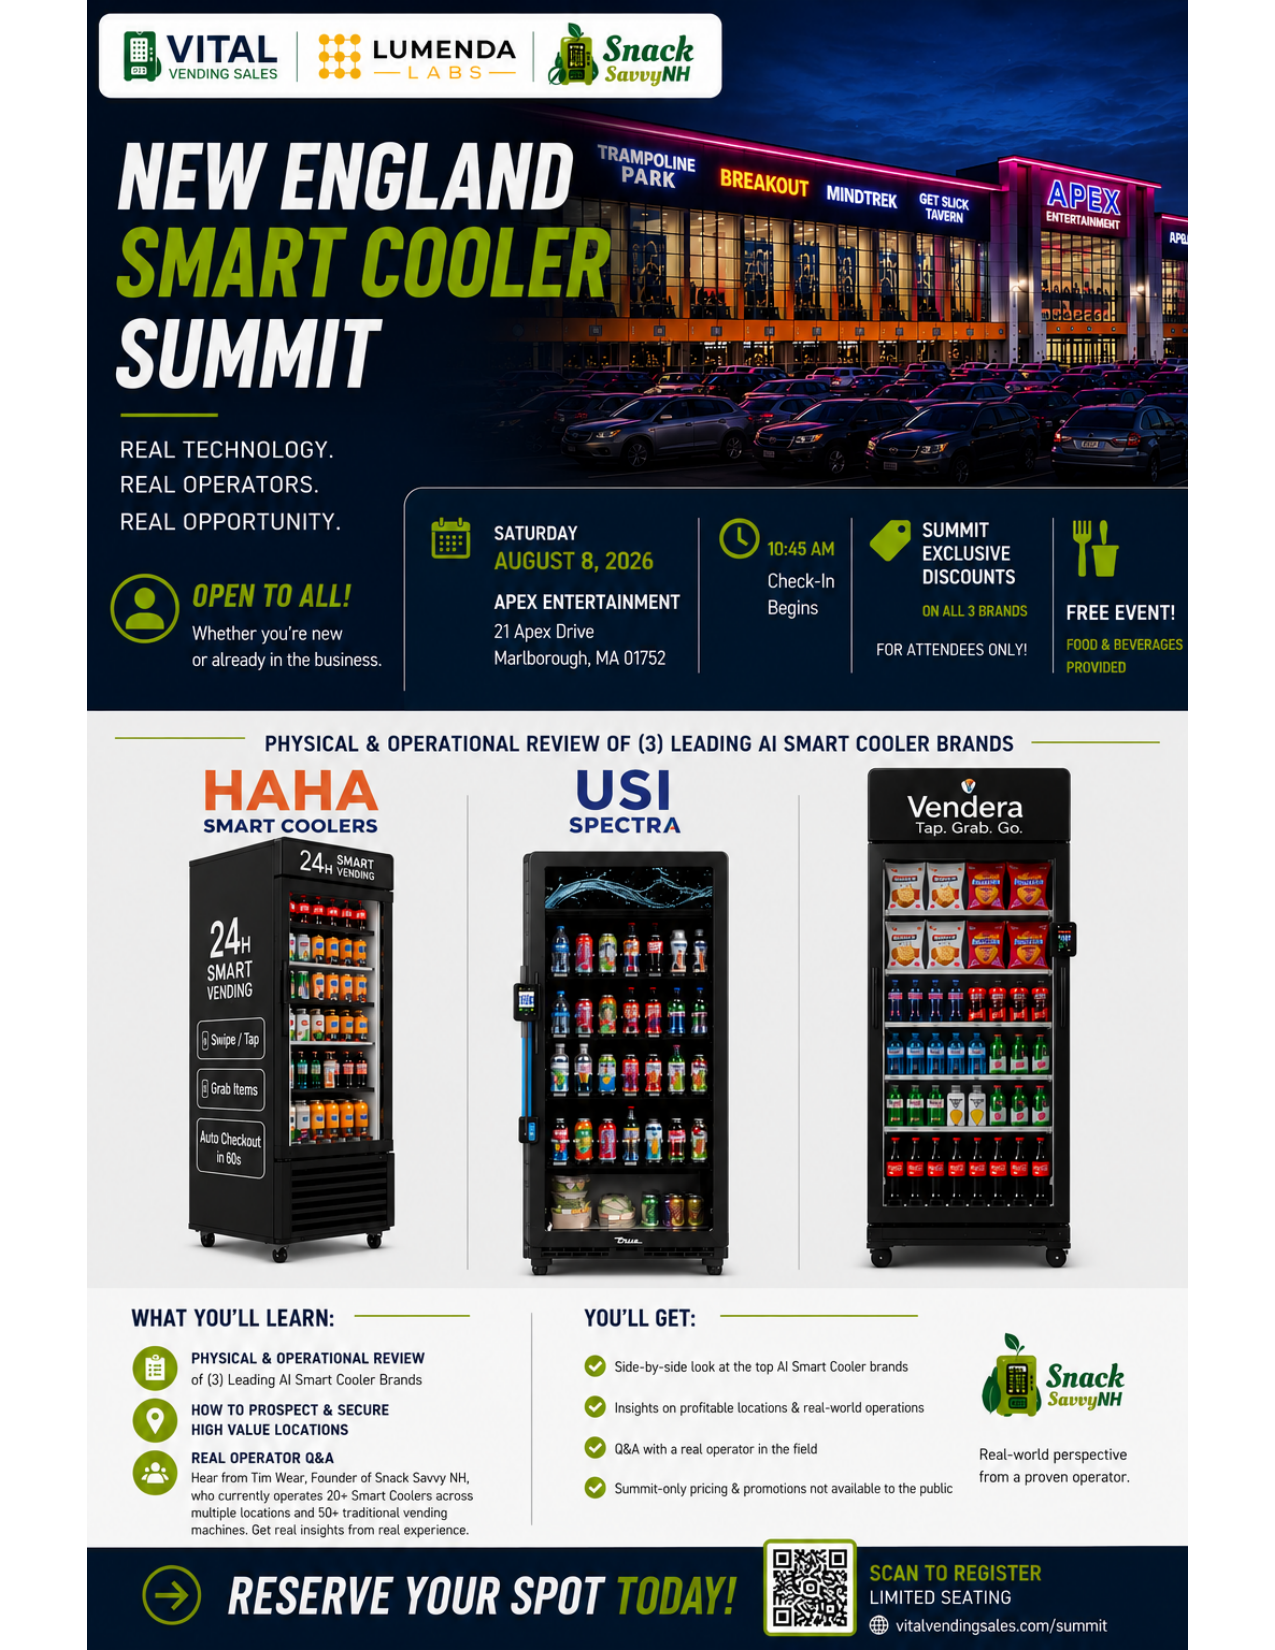
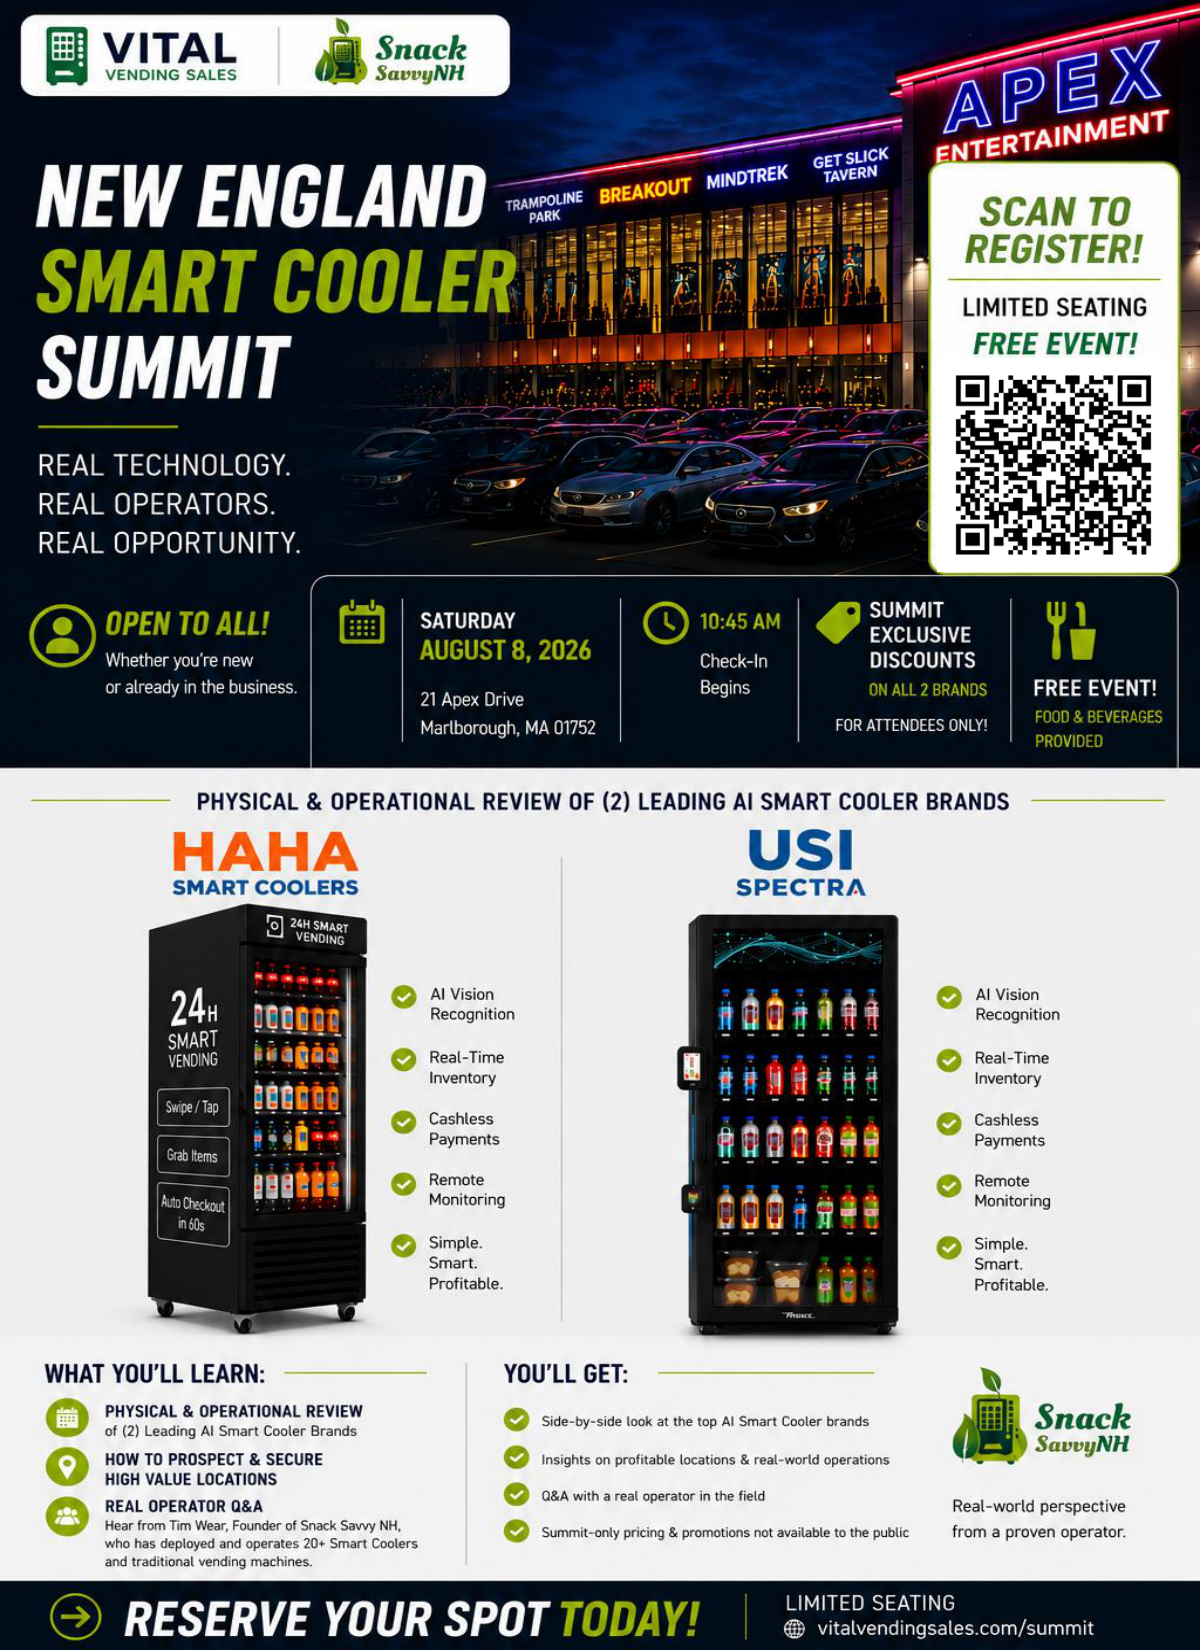
Update summit page to 2-brand event, remove Vendera
Client provided updated flier — the event now features only HAHA
and USI Spectra (Vendera dropped). Swapped the flier image, removed
Vendera from the brand showcase grid, and updated copy across the
"What You'll Learn"/"You'll Get" lists, page metadata, and operator
Q&A description to match the new flier content.

diff --git a/app/summit/page.js b/app/summit/page.js
@@ -5,9 +5,9 @@ import Image from 'next/image';
 import { submitToHubSpot } from '../../lib/hubspot';
 
 const LEARN_ITEMS = [
-  'Physical & operational review of 3 leading AI smart cooler brands — HAHA, USI Spectra, and Vendera',
+  'Physical & operational review of 2 leading AI smart cooler brands — HAHA and USI Spectra',
   'How to prospect and secure high-value locations',
-  'Real operator Q&A with Tim Wear, founder of Snack Savvy NH (20+ smart coolers, 50+ traditional vending machines)',
+  'Real operator Q&A with Tim Wear, founder of Snack Savvy NH, who has deployed and operates 20+ smart coolers and traditional vending machines',
   'Networking with other operators and industry experts',
 ];
 
@@ -15,13 +15,12 @@ const GET_ITEMS = [
   'A side-by-side look at the top AI smart cooler brands',
   'Insights on profitable locations and real-world operations',
   'Q&A with a real operator in the field',
-  'Summit-only pricing and promotions not available to the public',
+  'Summit-only pricing and promotions on both brands — not available to the public',
 ];
 
 const BRANDS = [
   { name: 'HAHA Smart Coolers', img: '/static-assets/MoreVendingMachinesandContent/Mini Details.png' },
   { name: 'USI Spectra', img: '/static-assets/vvs_product_catalog/images/spectra-pro-1.png' },
-  { name: 'Vendera', img: '/static-assets/vvs_product_catalog/images/vendera-modelLC510-image.png' },
 ];
 
 function RegisterForm() {
@@ -124,7 +123,7 @@ export default function Summit() {
             {/* Left: details + flier */}
             <div>
               <div className="relative rounded-2xl overflow-hidden mb-8" style={{ boxShadow: '0 4px 32px rgba(27,42,74,0.14)' }}>
-                <Image src="/static-assets/summit/summit-flier.png" alt="New England Smart Cooler Summit flier — August 8, 2026, Apex Entertainment, Marlborough MA" width={1260} height={1620} style={{ width: '100%', height: 'auto', display: 'block' }} priority />
+                <Image src="/static-assets/summit/summit-flier.png" alt="New England Smart Cooler Summit flier — August 8, 2026, Apex Entertainment, Marlborough MA" width={1200} height={1650} style={{ width: '100%', height: 'auto', display: 'block' }} priority />
               </div>
 
               <h2 className="font-black text-2xl mb-4" style={{ color: '#1B2A4A', letterSpacing: '-0.02em' }}>What You&apos;ll Learn</h2>
@@ -157,7 +156,7 @@ export default function Summit() {
             <div>
               <div className="rounded-2xl p-6 lg:p-8 mb-8" style={{ background: '#F4F6F8' }}>
                 <p className="text-xs font-bold uppercase mb-4" style={{ color: '#3DB54A', letterSpacing: '0.1em' }}>Physical &amp; Operational Review Of</p>
-                <div className="grid grid-cols-3 gap-3">
+                <div className="grid grid-cols-2 gap-3">
                   {BRANDS.map((b) => (
                     <div key={b.name} className="rounded-xl bg-white flex flex-col items-center p-3" style={{ border: '1px solid rgba(27,42,74,0.08)' }}>
                       <div className="relative flex items-center justify-center" style={{ height: 110, width: '100%' }}>

diff --git a/app/summit/layout.js b/app/summit/layout.js
@@ -1,6 +1,6 @@
 export const metadata = {
   title: 'New England Smart Cooler Summit | Aug 8, 2026 | Vital Vending Sales',
-  description: 'Join Vital Vending Sales for a free, hands-on review of the leading AI smart cooler brands — HAHA, USI Spectra, and Vendera. Saturday, August 8, 2026 at Apex Entertainment, Marlborough MA. Free to attend, space is limited.',
+  description: 'Join Vital Vending Sales for a free, hands-on review of the leading AI smart cooler brands — HAHA and USI Spectra. Saturday, August 8, 2026 at Apex Entertainment, Marlborough MA. Free to attend, space is limited.',
 };
 
 export default function SummitLayout({ children }) {
